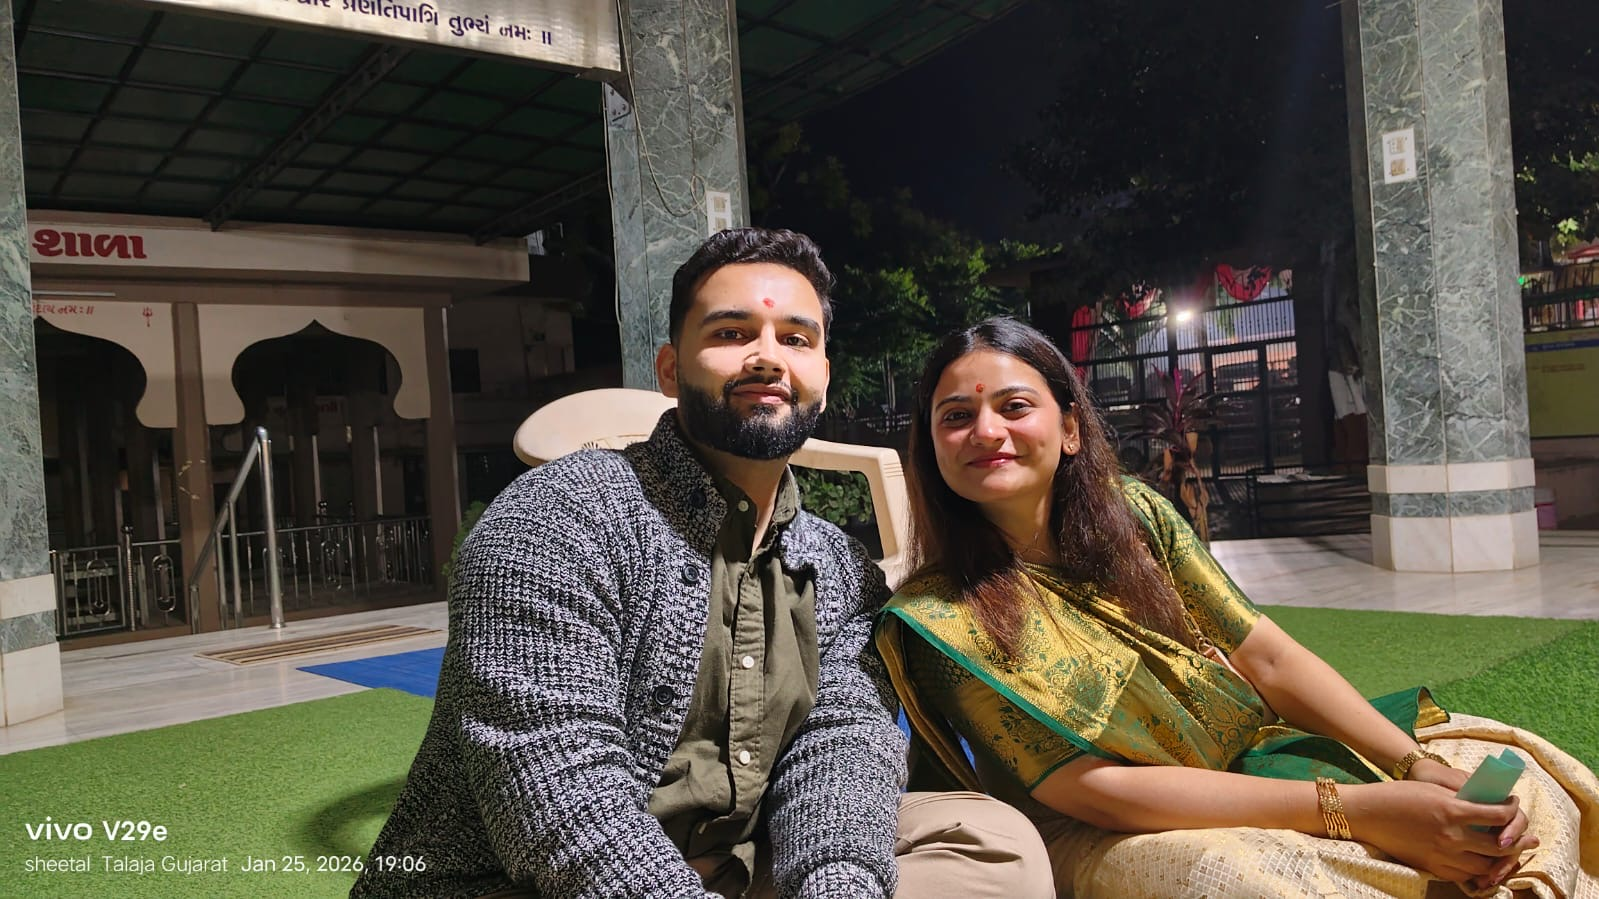
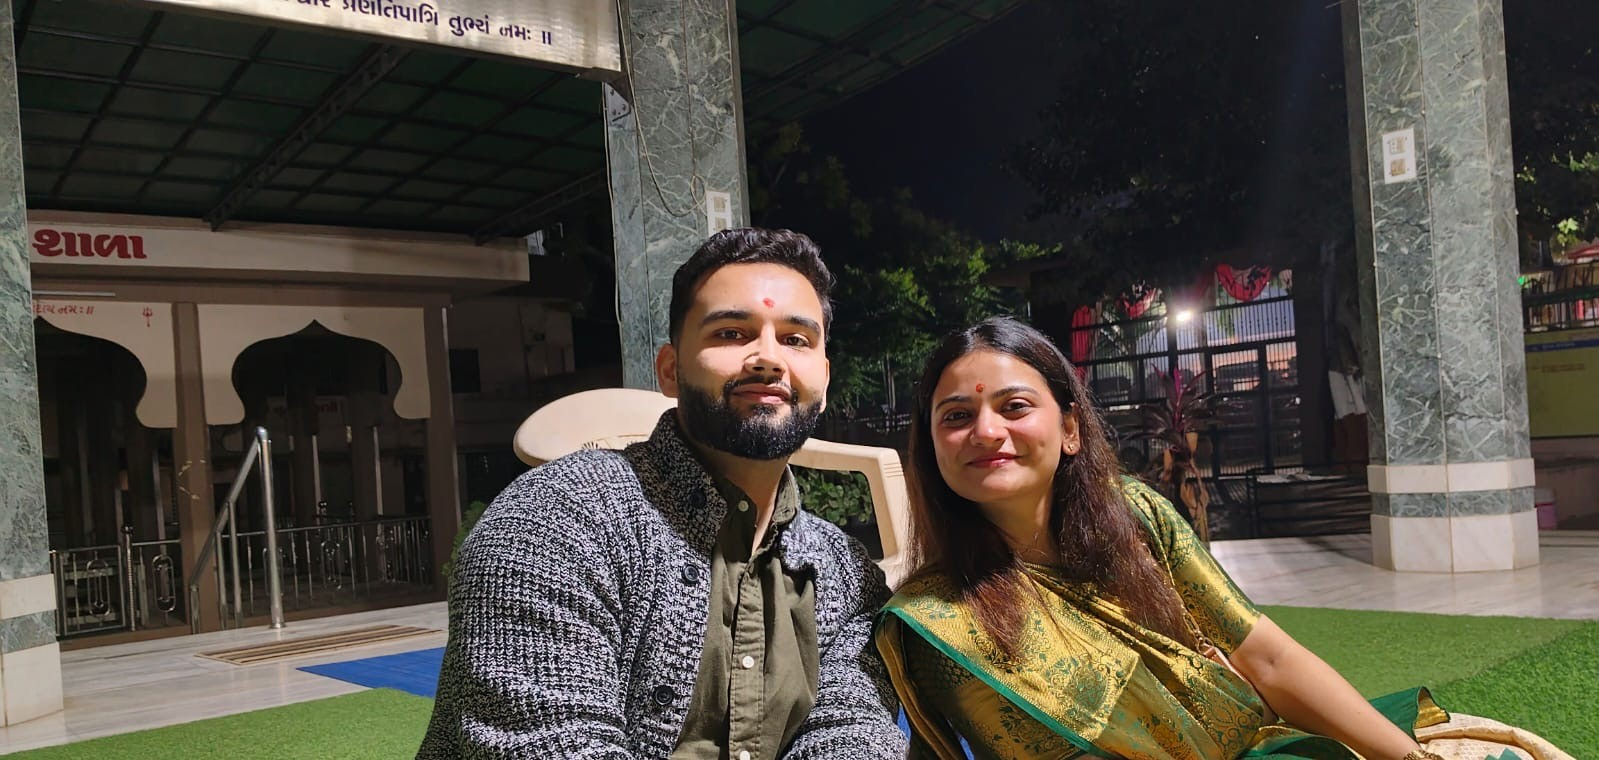
Fix photo/text overlap, add real venue, improve legibility
- Hero: move text to bottom of viewport (was vertically centered,
  overlapping both the couple's faces and colliding with the fixed
  navbar), bias photo position and add a strong bottom scrim
- Mid-page banner: same treatment - bias photo position away from
  faces, move caption to bottom with a stronger scrim
- Story section: fix background-position so the groom's head isn't
  cropped off the top
- RSVP and timeline backgrounds: bias position and strengthen
  overlay opacity as extra insurance against text-on-face
- Crop the camera watermark (timestamp/location burned into the
  photos) off the bottom of the banner and timeline source images
- Replace all "Venue to be announced" placeholders with the real
  venue (Rangoli Park Hotel & Resort, Bhavnagar), full address in
  the hero
- Bump font sizes on several small text elements (countdown labels,
  venue tags, timeline labels, eyebrows) for legibility

diff --git a/css/style.css b/css/style.css
@@ -156,18 +156,26 @@ ul { list-style: none; }
   position: relative;
   min-height: 100vh;
   display: flex;
-  align-items: center;
+  align-items: flex-end;
   justify-content: center;
   overflow: hidden;
   text-align: center;
+  padding-top: 6rem;
+  padding-bottom: 8vh;
 }
 .hero-photo-bg {
   position: absolute;
   inset: 0;
   z-index: 0;
-  background: linear-gradient(160deg, rgba(66, 54, 89, 0.82), rgba(139, 122, 179, 0.72)), url('../images/hero.jpg'), linear-gradient(160deg, var(--lilac-dark), var(--lilac) 45%, var(--lilac-mid));
+  background: url('../images/hero.jpg'), linear-gradient(160deg, var(--lilac-dark), var(--lilac) 45%, var(--lilac-mid));
   background-size: cover;
-  background-position: center;
+  background-position: center 78%;
+}
+.hero-photo-bg::after {
+  content: '';
+  position: absolute;
+  inset: 0;
+  background: linear-gradient(to top, rgba(45, 36, 62, 0.92) 0%, rgba(45, 36, 62, 0.55) 32%, rgba(66, 54, 89, 0.25) 60%, rgba(66, 54, 89, 0.35) 100%);
 }
 .hero-glow {
   position: absolute;
@@ -203,7 +211,7 @@ ul { list-style: none; }
   color: var(--lavender);
   letter-spacing: 3px;
   text-transform: uppercase;
-  font-size: 0.8rem;
+  font-size: 0.9rem;
   margin-bottom: 1rem;
 }
 .hero-names {
@@ -235,10 +243,21 @@ ul { list-style: none; }
 }
 .hero-dates {
   color: var(--ivory);
-  opacity: 0.85;
+  opacity: 0.9;
   margin-top: 0.6rem;
-  font-size: 0.95rem;
+  font-size: 1.1rem;
+  font-weight: 500;
   letter-spacing: 0.5px;
+}
+.hero-venue {
+  color: var(--ivory);
+  opacity: 0.85;
+  margin-top: 0.4rem;
+  font-size: 0.9rem;
+  letter-spacing: 0.3px;
+  max-width: 32rem;
+  margin-left: auto;
+  margin-right: auto;
 }
 
 .countdown {
@@ -264,7 +283,7 @@ ul { list-style: none; }
 }
 .countdown-box small {
   color: var(--lavender);
-  font-size: 0.65rem;
+  font-size: 0.75rem;
   letter-spacing: 1px;
   text-transform: uppercase;
 }
@@ -313,7 +332,7 @@ ul { list-style: none; }
   color: var(--lilac-light);
   text-transform: uppercase;
   letter-spacing: 3px;
-  font-size: 0.8rem;
+  font-size: 0.9rem;
   font-weight: 500;
 }
 .eyebrow-gujarati {
@@ -371,7 +390,7 @@ ul { list-style: none; }
   border-radius: 18px;
   background: linear-gradient(rgba(66, 54, 89, 0.1), rgba(139, 122, 179, 0.05)), url('../images/story.jpg'), linear-gradient(160deg, var(--lavender), #fff);
   background-size: cover;
-  background-position: center;
+  background-position: center top;
 }
 .story-text {
   font-size: 1.05rem;
@@ -431,9 +450,9 @@ ul { list-style: none; }
   position: absolute;
   inset: 0;
   z-index: 0;
-  background: linear-gradient(180deg, rgba(245, 241, 246, 0.9), rgba(214, 204, 232, 0.88)), url('../images/timeline-bg.jpg'), linear-gradient(180deg, var(--ivory), var(--lavender) 120%);
+  background: linear-gradient(180deg, rgba(245, 241, 246, 0.94), rgba(214, 204, 232, 0.92)), url('../images/timeline-bg.jpg'), linear-gradient(180deg, var(--ivory), var(--lavender) 120%);
   background-size: cover;
-  background-position: center;
+  background-position: center 70%;
 }
 .vtimeline {
   position: relative;
@@ -462,7 +481,7 @@ ul { list-style: none; }
 .timeline-day-heading span {
   display: block;
   font-family: var(--font-body);
-  font-size: 0.7rem;
+  font-size: 0.8rem;
   letter-spacing: 2px;
   text-transform: uppercase;
   color: var(--gold);
@@ -491,7 +510,7 @@ ul { list-style: none; }
 }
 .timeline-time {
   display: inline-block;
-  font-size: 0.7rem;
+  font-size: 0.8rem;
   font-weight: 600;
   letter-spacing: 2px;
   text-transform: uppercase;
@@ -505,7 +524,7 @@ ul { list-style: none; }
 }
 .event-venue {
   display: inline-block;
-  font-size: 0.75rem;
+  font-size: 0.85rem;
   color: var(--gold);
   border: 1px solid var(--gold);
   border-radius: 20px;
@@ -524,21 +543,22 @@ ul { list-style: none; }
   inset: 0;
   background: url('../images/banner.jpg'), linear-gradient(135deg, var(--lilac-mid), var(--lilac-light));
   background-size: cover;
-  background-position: center;
+  background-position: center 85%;
 }
 .photo-banner-overlay {
   position: absolute;
   inset: 0;
   display: flex;
-  align-items: center;
+  align-items: flex-end;
   justify-content: center;
-  background: linear-gradient(180deg, rgba(66, 54, 89, 0.15), rgba(66, 54, 89, 0.55));
+  padding-bottom: 8%;
+  background: linear-gradient(180deg, rgba(45, 36, 62, 0.1) 0%, rgba(45, 36, 62, 0.2) 40%, rgba(45, 36, 62, 0.88) 100%);
 }
 .photo-banner-text {
   font-family: var(--font-script);
   color: var(--ivory);
   font-size: clamp(2rem, 5vw, 3.2rem);
-  text-shadow: 0 4px 20px rgba(0, 0, 0, 0.3);
+  text-shadow: 0 4px 20px rgba(0, 0, 0, 0.5);
 }
 
 /* ---------- RSVP ---------- */
@@ -551,9 +571,9 @@ ul { list-style: none; }
   position: absolute;
   inset: 0;
   z-index: 0;
-  background: linear-gradient(160deg, rgba(66, 54, 89, 0.88), rgba(139, 122, 179, 0.82)), url('../images/rsvp-bg.jpg'), linear-gradient(160deg, var(--lilac-dark), var(--lilac-mid));
+  background: linear-gradient(160deg, rgba(45, 36, 62, 0.93), rgba(66, 54, 89, 0.88)), url('../images/rsvp-bg.jpg'), linear-gradient(160deg, var(--lilac-dark), var(--lilac-mid));
   background-size: cover;
-  background-position: center;
+  background-position: center 75%;
 }
 .rsvp .eyebrow { color: var(--gold-light); }
 .rsvp .section-title { color: var(--ivory); }

diff --git a/index.html b/index.html
@@ -80,7 +80,8 @@
     </h1>
     <p class="hero-hashtag reveal-up" style="--d:0.55s">#ShivDarshi</p>
     <p class="hero-gujarati reveal-up" style="--d:0.62s">શુભ વિવાહ</p>
-    <p class="hero-dates reveal-up" style="--d:0.7s">7 &ndash; 9 January 2027 &bull; Venue to be announced</p>
+    <p class="hero-dates reveal-up" style="--d:0.7s">7 &ndash; 9 January 2027</p>
+    <p class="hero-venue reveal-up" style="--d:0.78s">Rangoli Park Hotel &amp; Resort Pvt. Ltd., Rangoli Circle, Vartej, Bhavnagar, (Gujarat) INDIA</p>
 
     <div class="countdown reveal-up" style="--d:0.85s" id="countdown" aria-label="Countdown to the wedding celebrations">
       <div class="countdown-box"><span id="cd-days">00</span><small>Days</small></div>
@@ -129,7 +130,7 @@
           <div class="timeline-entry-content">
             <span class="timeline-time">Afternoon</span>
             <h4>Mehndi</h4>
-            <span class="event-venue">Venue to be announced</span>
+            <span class="event-venue">Rangoli Park Hotel &amp; Resort, Bhavnagar</span>
           </div>
         </div>
       </div>
@@ -141,7 +142,7 @@
           <div class="timeline-entry-content">
             <span class="timeline-time">Morning</span>
             <h4>Haldi</h4>
-            <span class="event-venue">Venue to be announced</span>
+            <span class="event-venue">Rangoli Park Hotel &amp; Resort, Bhavnagar</span>
           </div>
         </div>
         <div class="timeline-entry">
@@ -149,7 +150,7 @@
           <div class="timeline-entry-content">
             <span class="timeline-time">Midday</span>
             <h4>Mandap Muhurat</h4>
-            <span class="event-venue">Venue to be announced</span>
+            <span class="event-venue">Rangoli Park Hotel &amp; Resort, Bhavnagar</span>
           </div>
         </div>
       </div>
@@ -161,7 +162,7 @@
           <div class="timeline-entry-content">
             <span class="timeline-time">Evening</span>
             <h4>Wedding</h4>
-            <span class="event-venue">Venue to be announced</span>
+            <span class="event-venue">Rangoli Park Hotel &amp; Resort, Bhavnagar</span>
           </div>
         </div>
       </div>
